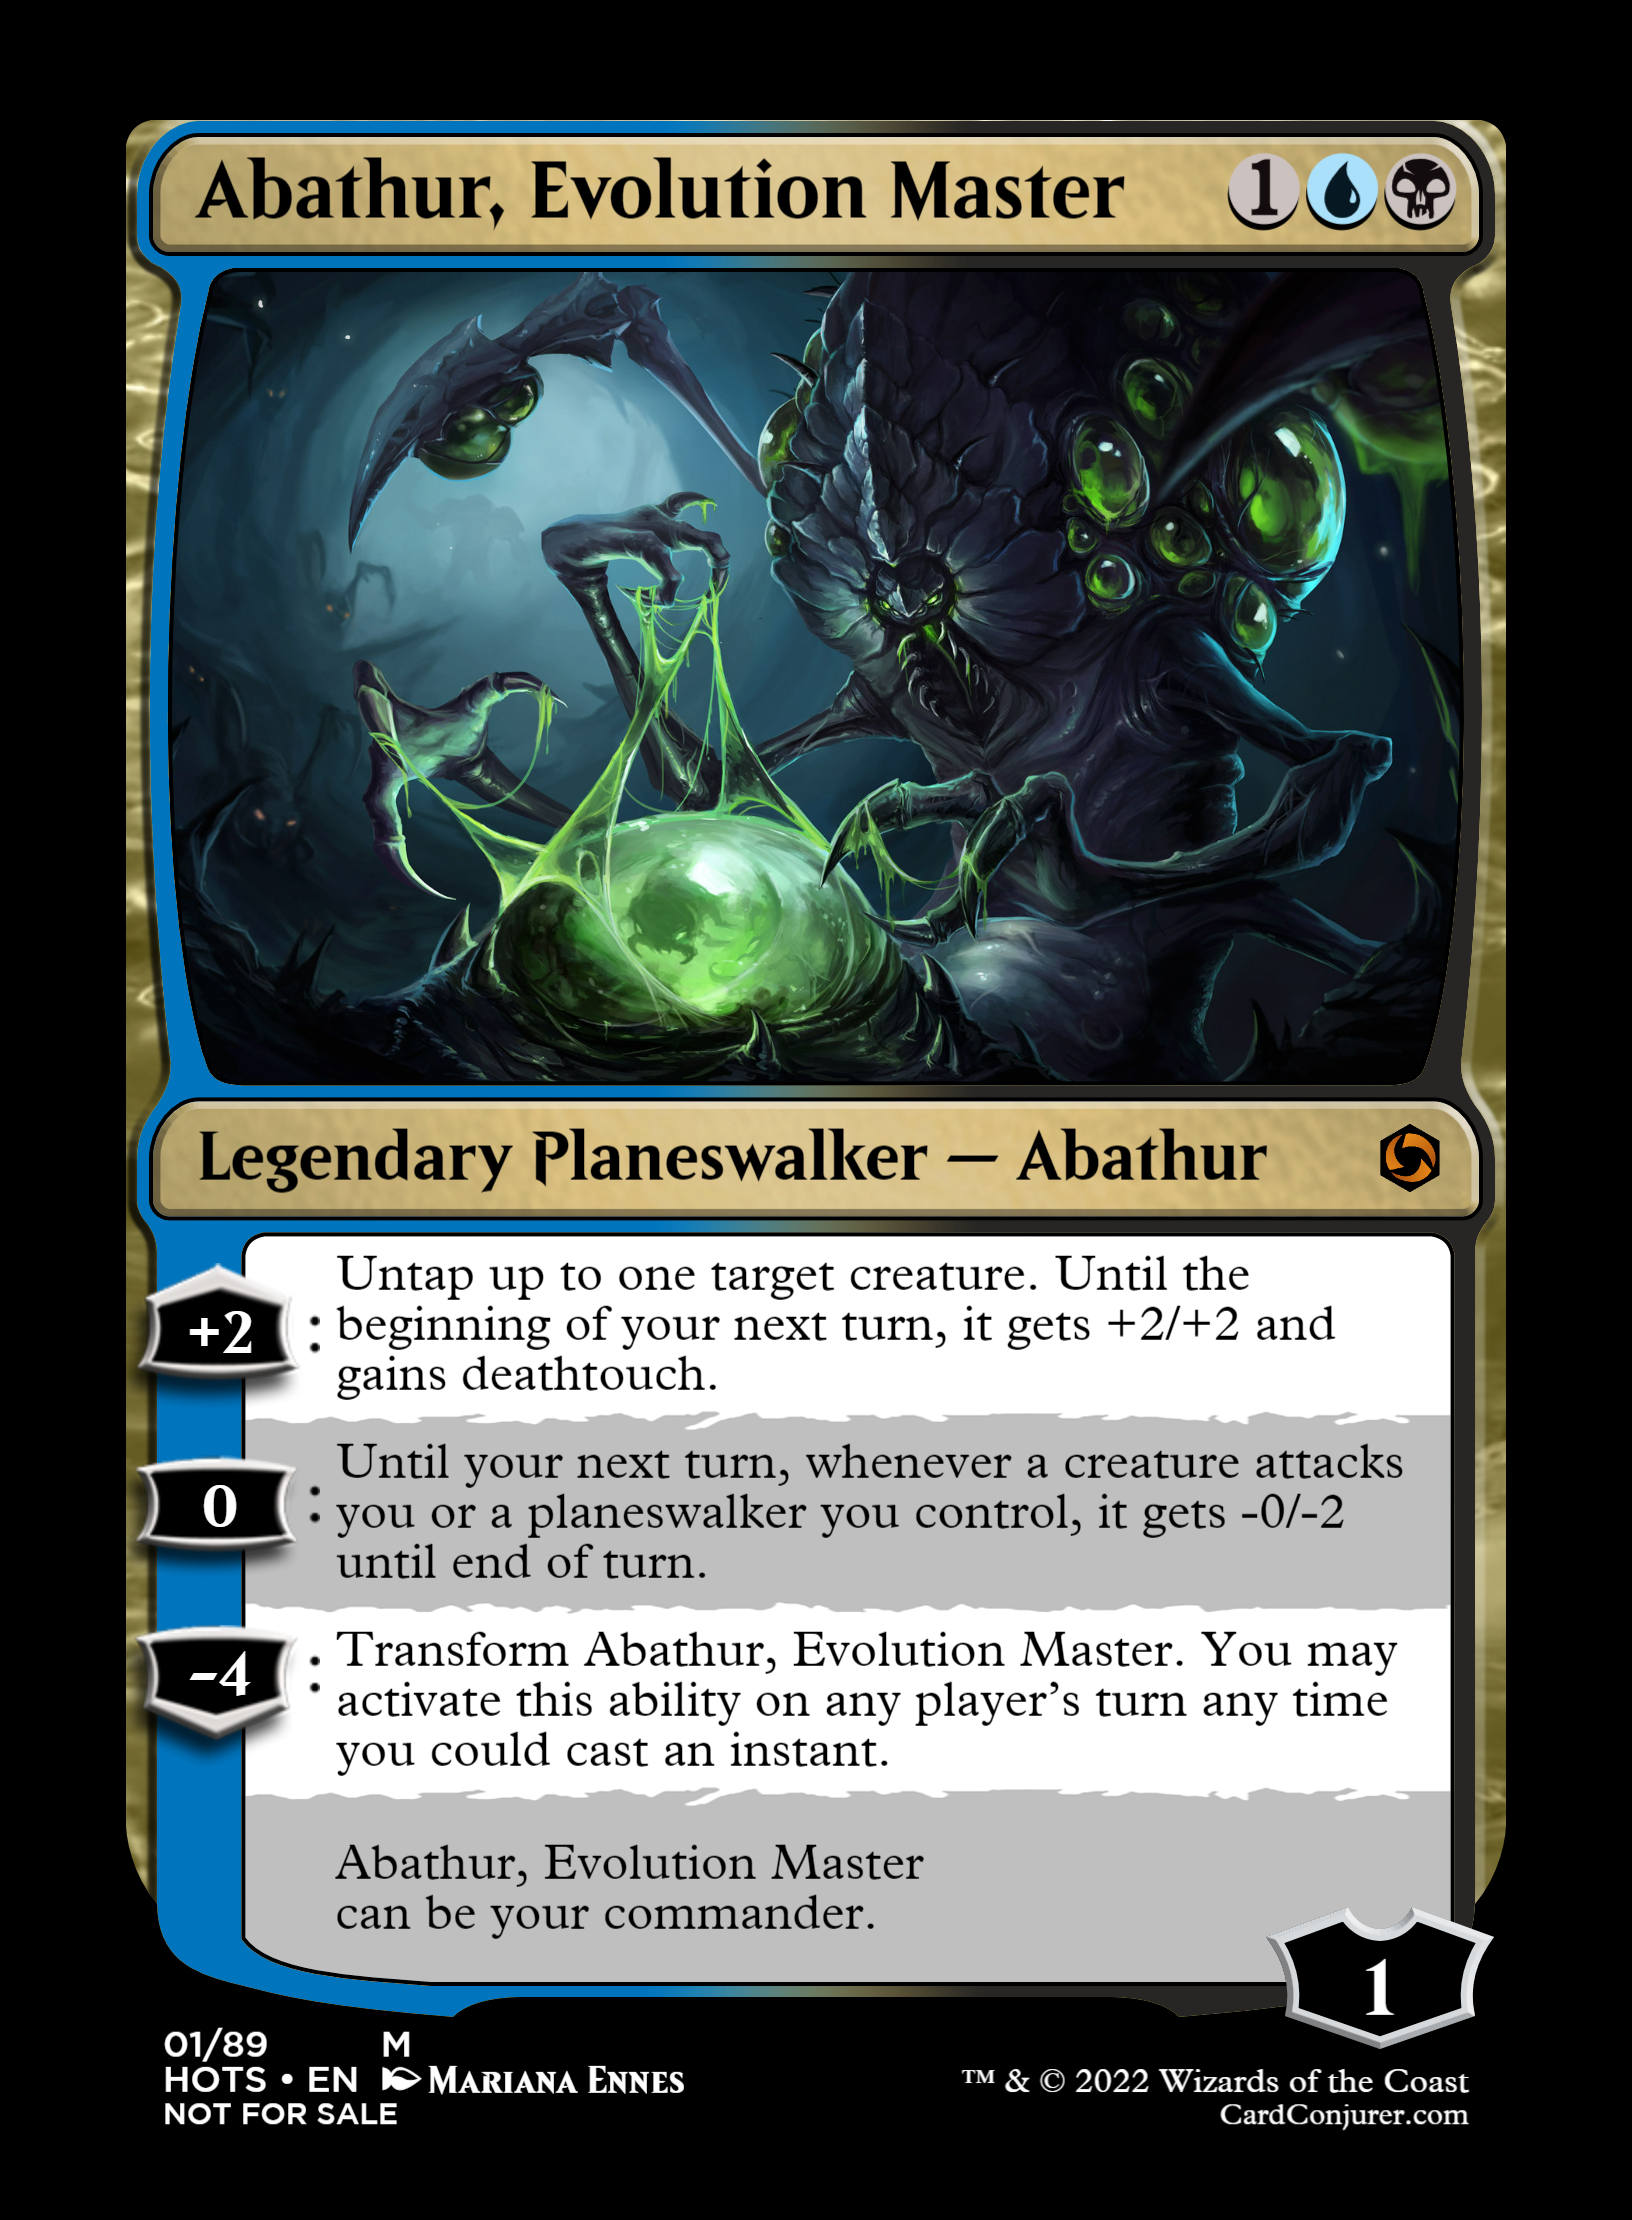
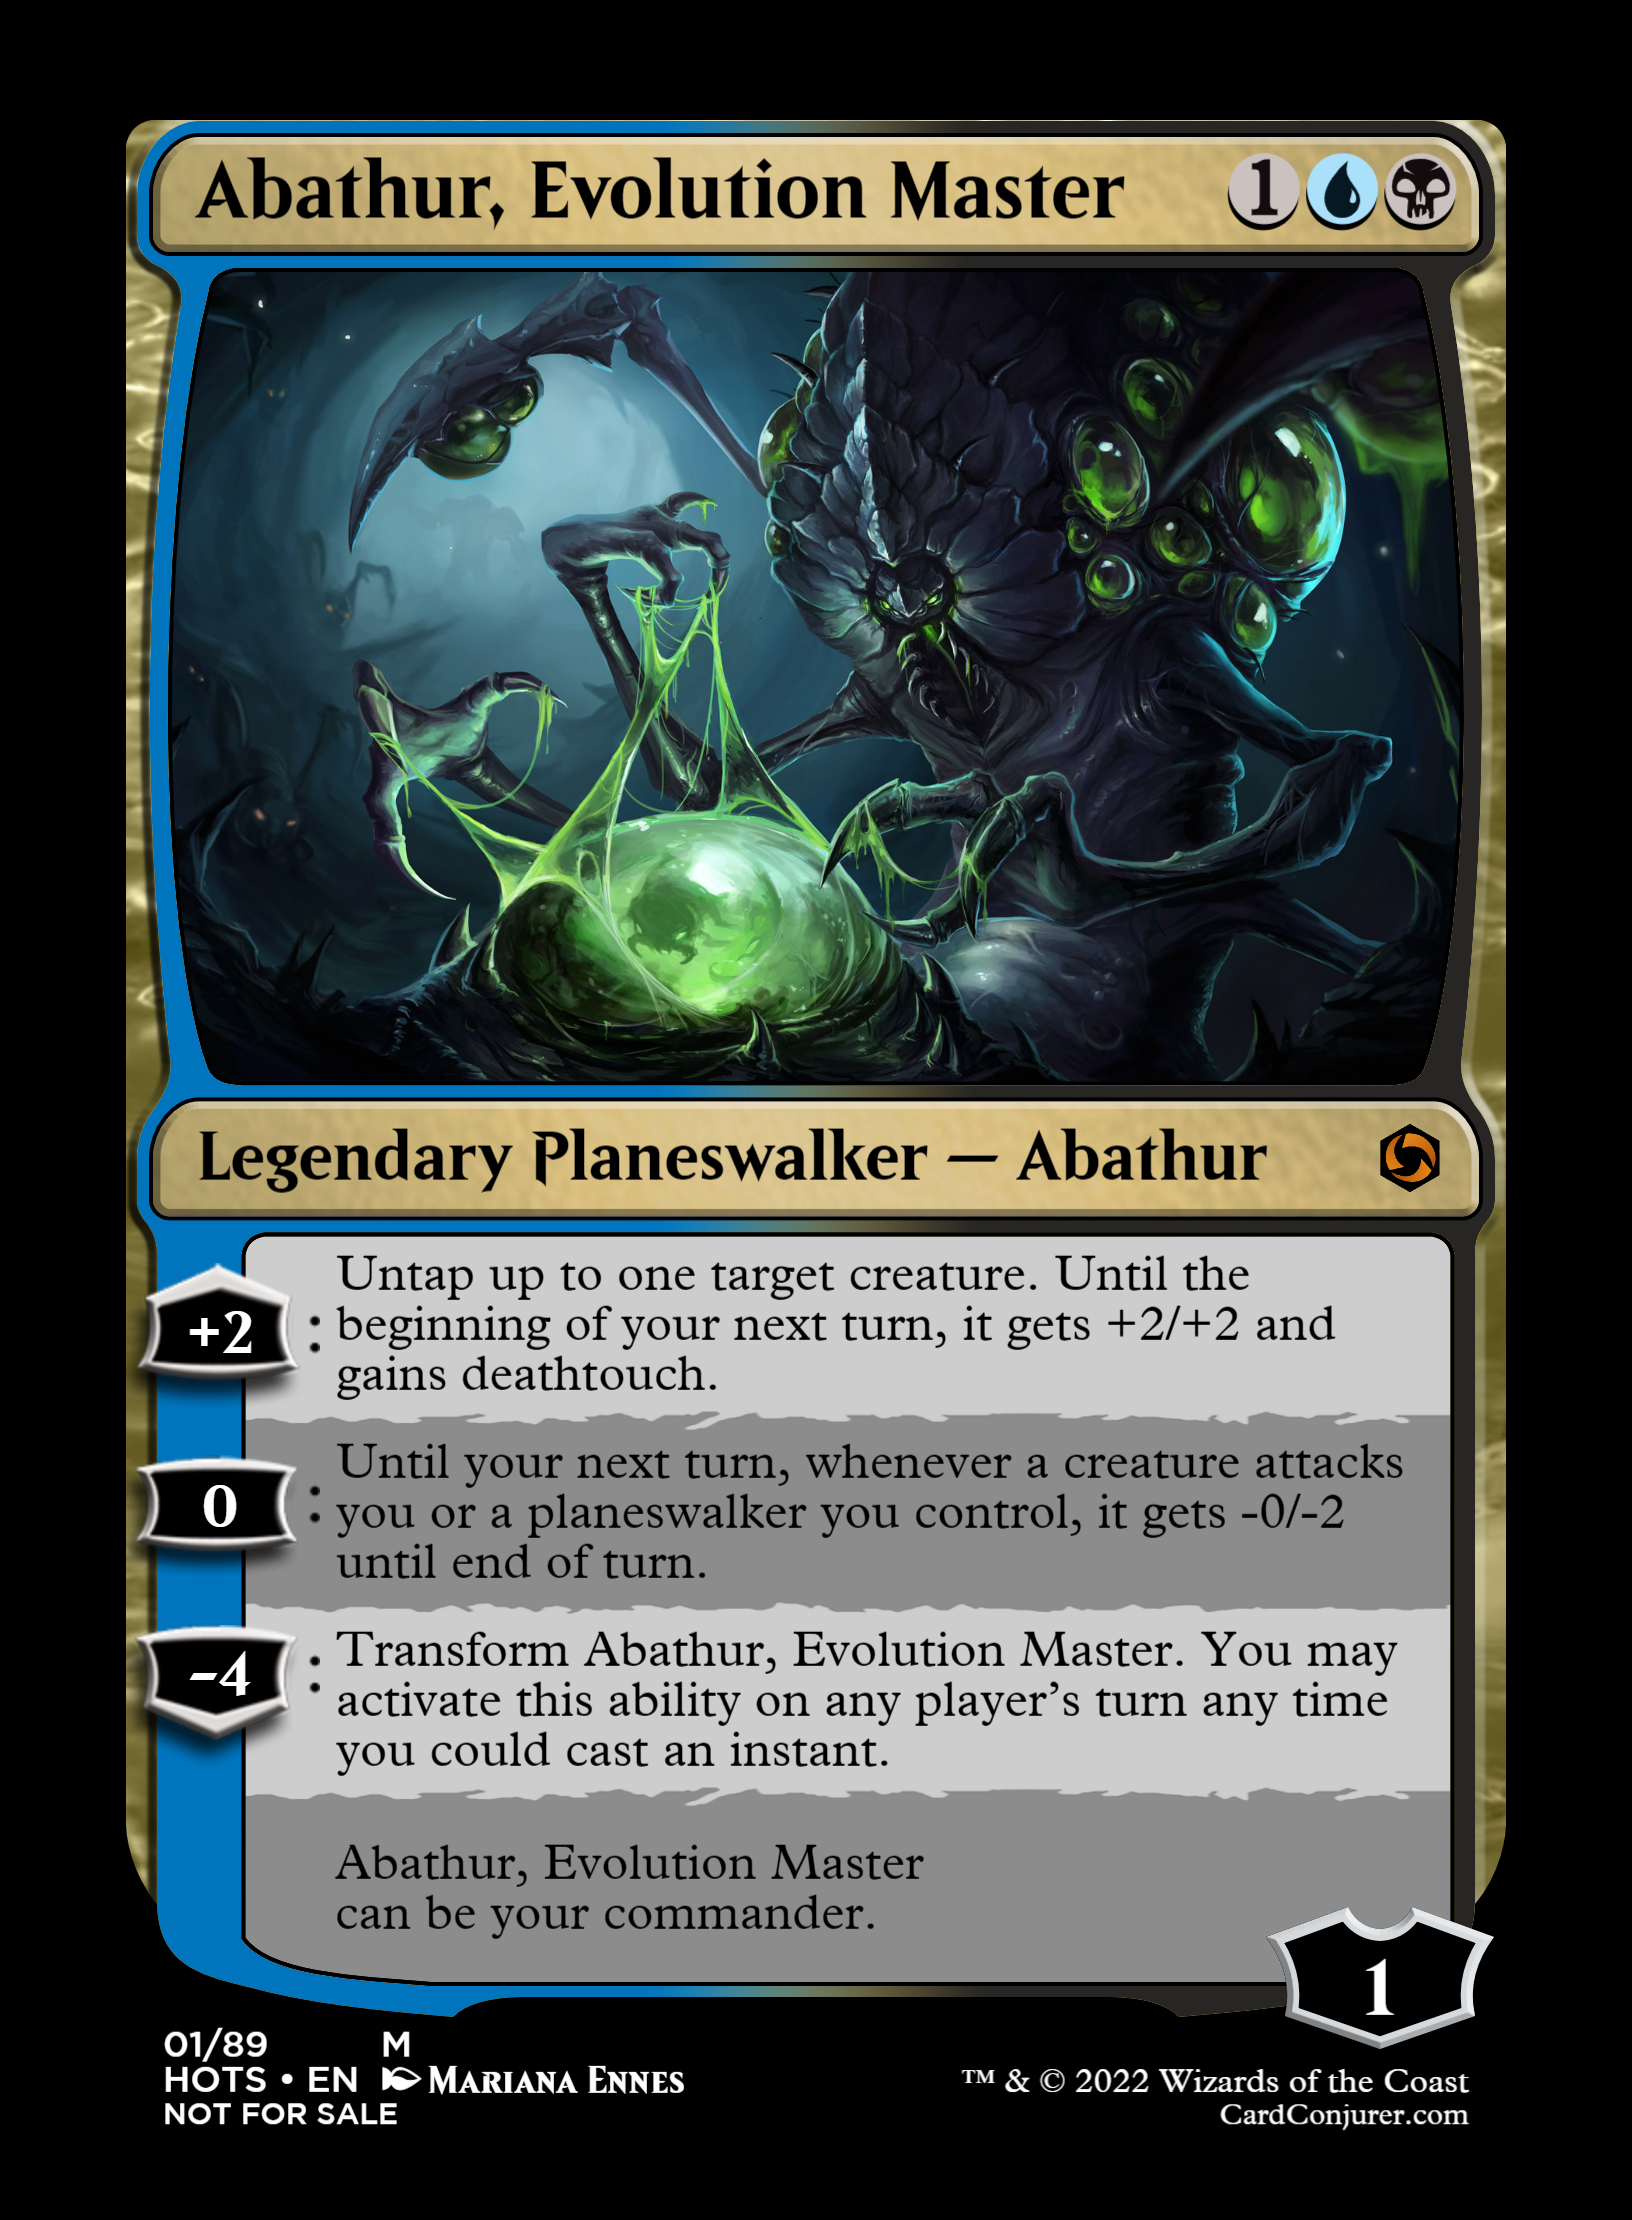
Adjusted card visuals and added Ragnaros

Changed region(s): [[0.125, 0.5284, 0.9062, 0.9014]]

diff --git a/commanders.js b/commanders.js
@@ -314,6 +314,8 @@ const commanders = [
     {
         id: "061",
         name: "Ragnaros",
+        front: "resources/images/heroes/061a-ragnaros.png",
+        back: "resources/images/heroes/061b-ragnaros.png"
     },
     {
         id: "062",
